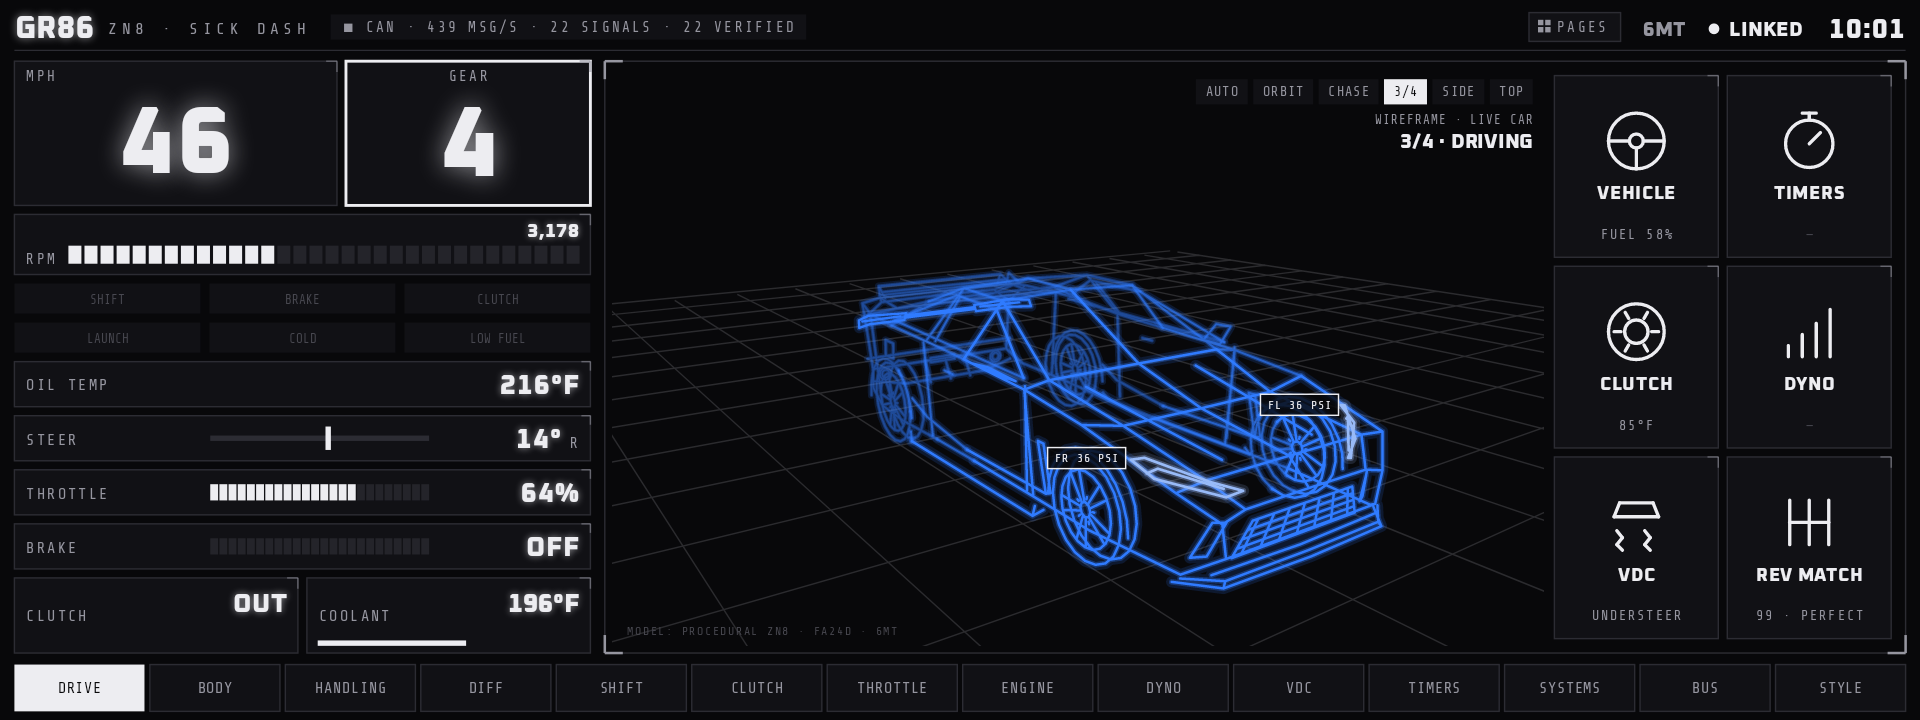
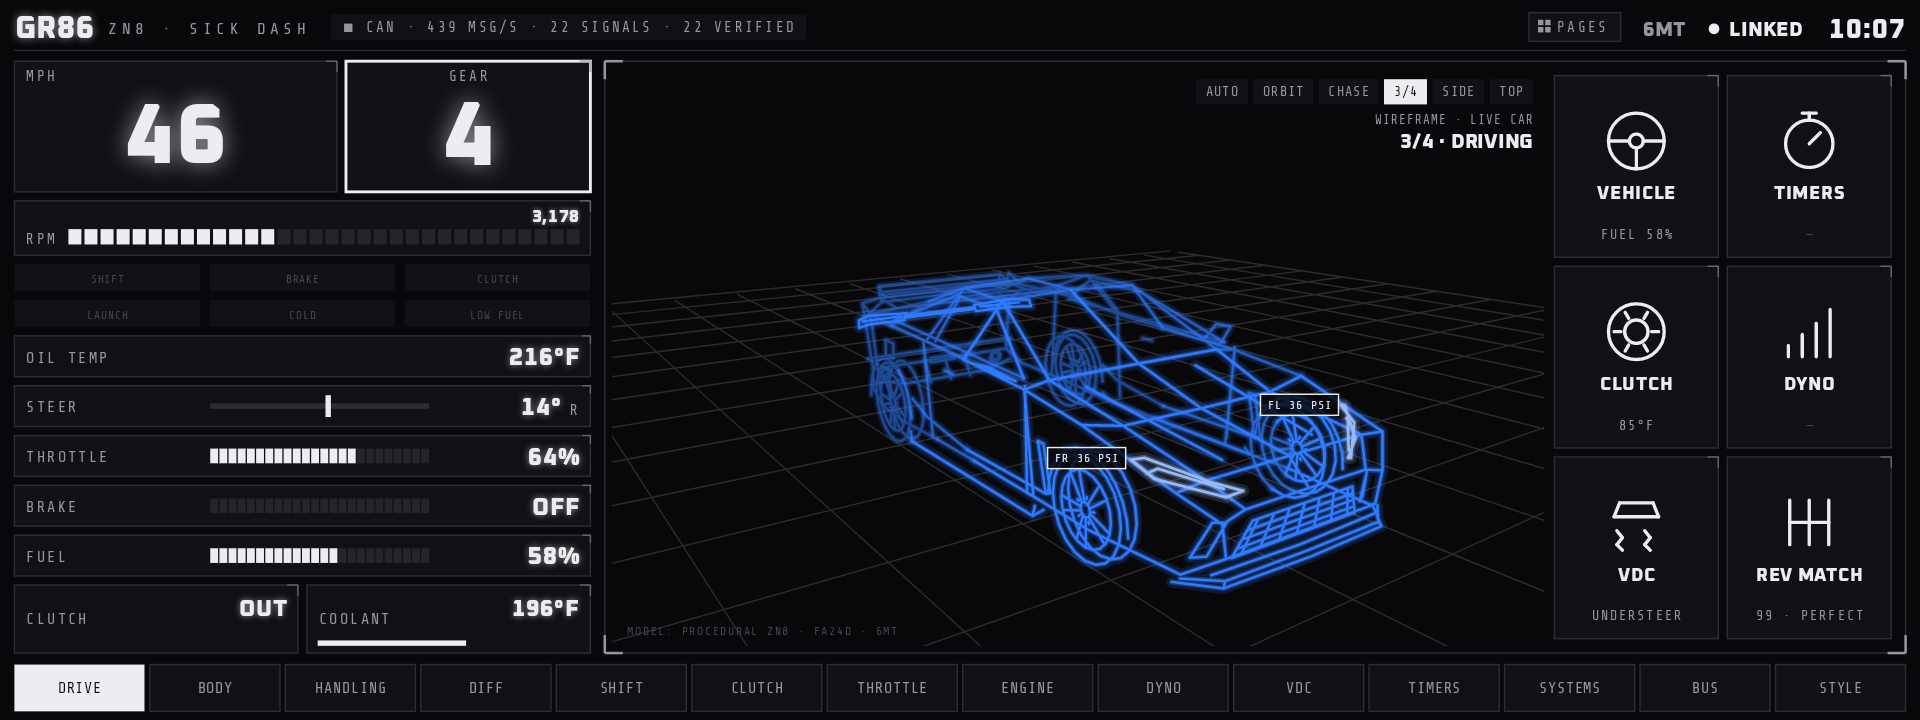
Smooth the fuel level and show it in the instrument column
The GR86's fuel sender (0x393) is unfiltered and sloshes several percent
in corners and under braking. Fuel is now damped with a 20 s time
constant in the value store, so every page, the low-fuel warning and the
logs see a steady reading like the factory gauge. A reading after a gap
of more than 10 s (a restart, maybe after filling up) is taken
immediately. The instrument column gets a FUEL bar that turns amber
below 15%.

Claude-Session: https://claude.ai/code/session_015VKapK5uUzPyn8EGEzKFEN

diff --git a/app/src/main/java/com/sickdash/ui/DashRenderer.kt b/app/src/main/java/com/sickdash/ui/DashRenderer.kt
@@ -317,7 +317,7 @@ class DashRenderer(assets: AssetManager) {
 
     internal fun instrumentColumn(c: Canvas, r: RectF, s: Snapshot, cfg: DashConfig, gear: Int?) {
         val gap = 5f * u
-        val nominal = floatArrayOf(96f, 40f, 46f, 30f, 30f, 30f, 30f, 50f)
+        val nominal = floatArrayOf(96f, 40f, 46f, 30f, 30f, 30f, 30f, 30f, 50f)
         val k = (r.height() - gap * (nominal.size - 1)) / nominal.sum()
         var y = r.top
         fun next(i: Int): RectF { val rr = RectF(r.left, y, r.right, y + nominal[i] * k); y += nominal[i] * k + gap; return rr }
@@ -393,9 +393,13 @@ class DashRenderer(assets: AssetManager) {
         val brkRow = next(6)
         row(c, brkRow, "BRAKE", brk?.let { if (it < 2f) "OFF" else "${it.roundToInt()}%" } ?: "—", if ((brk ?: 0f) > 5f) t.primary else t.text)
         segments(c, rowBar(brkRow), 24, (brk ?: 0f) / 100f) { t.primary }
+        val fuelRow = next(7)
+        val low = fuel != null && fuel < 15f
+        row(c, fuelRow, "FUEL", fuel?.let { "${it.roundToInt()}%" } ?: "—", if (low) t.secondary else t.text)
+        segments(c, rowBar(fuelRow), 24, (fuel ?: 0f) / 100f) { if (low) t.secondary else t.text }
 
         // clutch | coolant
-        val last = next(7)
+        val last = next(8)
         val clutchBox = RectF(last.left, last.top, last.centerX() - gap / 2, last.bottom)
         val coolBox = RectF(last.centerX() + gap / 2, last.top, last.right, last.bottom)
         val clutch = s[Channel.CLUTCH]

diff --git a/app/src/main/java/com/sickdash/data/VehicleData.kt b/app/src/main/java/com/sickdash/data/VehicleData.kt
@@ -51,6 +51,14 @@ object VehicleData {
     /** Total updates per channel, for the Systems page's update rates. */
     val updates = LongArray(Channel.entries.size)
 
+    /**
+     * Time constants (s) for channels whose raw signal is too jumpy to show as-is. The fuel
+     * sender sloshes several percent in corners and under braking; the factory gauge damps it
+     * heavily, so we do too. A reading after a gap (a restart, maybe after filling up) is taken
+     * straight away.
+     */
+    private val smoothingS = FloatArray(Channel.entries.size).also { it[Channel.FUEL.ordinal] = 20f }
+
     const val SRC_CAN = 1
     const val SRC_OBD = 2
     const val SRC_PHONE = 3
@@ -75,7 +83,12 @@ object VehicleData {
     fun set(c: Channel, value: Float, now: Long = System.currentTimeMillis(), kind: Int = 0, id: Int = 0) {
         if (value.isNaN() || value.isInfinite()) return
         synchronized(lock) {
-            values[c.ordinal] = value
+            val tau = smoothingS[c.ordinal]
+            val last = stamps[c.ordinal]
+            values[c.ordinal] = if (tau > 0f && last != 0L && now - last in 0..10_000) {
+                val k = ((now - last) / 1000f / tau).coerceAtMost(1f)
+                values[c.ordinal] + (value - values[c.ordinal]) * k
+            } else value
             stamps[c.ordinal] = now
             updates[c.ordinal]++
             if (kind != 0) { sourceKind[c.ordinal] = kind; sourceId[c.ordinal] = id }

diff --git a/app/src/test/java/com/sickdash/data/FuelSmoothingTest.kt b/app/src/test/java/com/sickdash/data/FuelSmoothingTest.kt
@@ -1,0 +1,41 @@
+package com.sickdash.data
+
+import org.junit.Assert.assertEquals
+import org.junit.Assert.assertTrue
+import org.junit.Test
+import kotlin.math.abs
+
+class FuelSmoothingTest {
+    @Test
+    fun sloshIsDampedLikeTheFactoryGauge() {
+        VehicleData.clearAll()
+        var now = 1_000_000L
+        VehicleData.set(Channel.FUEL, 50f, now)
+        // 30 s of cornering: the raw sender swings ±6 % at 0.5 Hz, 10 readings a second
+        var worst = 0f
+        repeat(300) { i ->
+            now += 100
+            VehicleData.set(Channel.FUEL, 50f + if ((i / 10) % 2 == 0) 6f else -6f, now)
+            worst = maxOf(worst, abs(VehicleData.snapshot(now)[Channel.FUEL]!! - 50f))
+        }
+        assertTrue("shown level wandered $worst %", worst < 1f)
+    }
+
+    @Test
+    fun aReadingAfterAGapIsTakenStraightAway() {
+        VehicleData.clearAll()
+        var now = 2_000_000L
+        VehicleData.set(Channel.FUEL, 20f, now)
+        now += 60_000 // car off, filled up
+        VehicleData.set(Channel.FUEL, 95f, now)
+        assertEquals(95f, VehicleData.snapshot(now)[Channel.FUEL]!!, 0.01f)
+    }
+
+    @Test
+    fun otherChannelsAreNotSmoothed() {
+        VehicleData.clearAll()
+        VehicleData.set(Channel.RPM, 1000f, 3_000_000L)
+        VehicleData.set(Channel.RPM, 6000f, 3_000_050L)
+        assertEquals(6000f, VehicleData.snapshot(3_000_050L)[Channel.RPM]!!, 0.01f)
+    }
+}

diff --git a/README.md b/README.md
@@ -45,7 +45,7 @@ The **instrument column** on the left is always visible:
 - Big glowing speed and gear boxes.
 - Segmented RPM bar that turns amber, then flashes at your shift point.
 - Status chips: SHIFT, BRAKE, CLUTCH, LAUNCH, COLD, LOW FUEL. Each lights only from real data.
-- Oil temp, steering angle, throttle and brake bars.
+- Oil temp, steering angle, and throttle, brake and fuel bars. The fuel bar turns amber below 15%.
 - Clutch IN/OUT and coolant.
 
 The **header** shows the link and its health ("■ CAN · 440 MSG/S · 22 SIGNALS · 22 VERIFIED"). It also shows LOCKED and BELT states when the car reports them, and REC while recording. The **PAGES** button opens a task switcher with every page as a card.
@@ -114,6 +114,7 @@ Notes on the decode:
 - **Tyre pressures** assume a US (psi) cluster. For a bar cluster, set the tyre `scale` to `10` in the profile editor (**Settings → Edit CAN profile**).
 - **6AT cars:** remove the `gear` signal. The app then estimates the gear from RPM and speed.
 - **Accelerometers:** the car's are switched off by default because they're coarse. The phone's sensors drive the G-meter.
+- **Fuel level** is damped over about 20 s, like the factory gauge, because the raw sender sloshes several percent in corners and under braking. A new reading after the car has been off (for example after filling up) shows straight away.
 
 The app is **read-only**. It never transmits onto the CAN bus. In OBD mode it only sends standard OBD-II requests.
 
